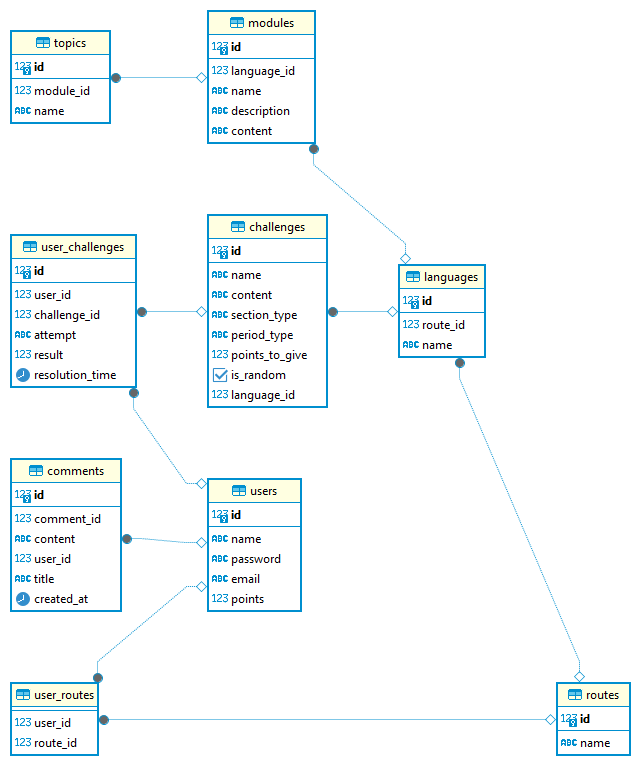
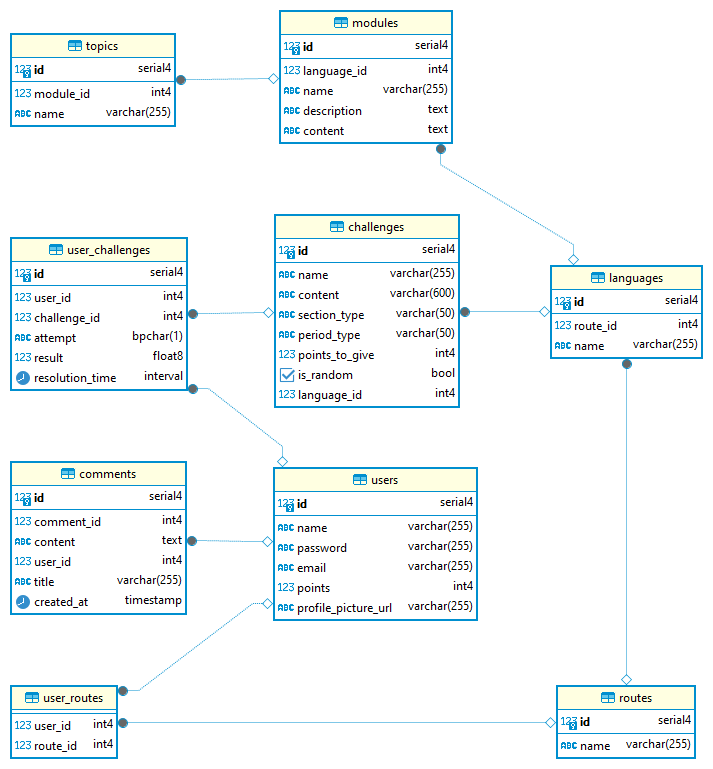
Add profile picture field to users

diff --git a/olp1-ms/src/models/userModel.js b/olp1-ms/src/models/userModel.js
@@ -9,11 +9,11 @@ exports.getAll = async () => {
 
 // Function to save a new user to the database
 exports.save = async (name, hashedPassword, email, points) => {
-  const query = `INSERT INTO users (name, password, email, points)
-                 VALUES ($1, $2, $3, $4)
+  const query = `INSERT INTO users (name, password, email, points, profile_picture_url)
+                 VALUES ($1, $2, $3, $4, $5)
                  RETURNING *`;
   // Define the values to be inserted               
-  const values = [name, hashedPassword, email, points];
+  const values = [name, hashedPassword, email, points, profile_picture_url];
   const { rows } = await pool.query(query, values);
   return rows[0];
 };
@@ -21,10 +21,10 @@ exports.save = async (name, hashedPassword, email, points) => {
 // Function to update an existing user in the database
 exports.update = async (id, data) => {
   const query = `UPDATE users
-                 SET name = $1, password = $2, email = $3, points = $4
-                 WHERE id = $5
+                 SET name = $1, password = $2, email = $3, points = $4, profile_picture_url = $5
+                 WHERE id = $6
                  RETURNING *`;
-  const values = [data.name, data.password, data.email, data.points, id];
+  const values = [data.name, data.password, data.email, data.points, data.profile_picture_url, id];
   const { rows } = await pool.query(query, values);
   return rows[0];
 };
@@ -52,7 +52,7 @@ exports.findById = async (id) => {
 // Function to update a specific column of a user in the database
 exports.updateSome = async (id, key, newValue) => {
     // Define the valid columns that can be updated
-  const validColumns = ['name', 'email', 'password', 'points']; 
+  const validColumns = ['name', 'email', 'password', 'points', 'profile_picture_url']; 
     // Check if the key is a valid column
   if (!validColumns.includes(key)) {
     throw new Error('Nombre de columna no válido');

diff --git a/olp1-ms/src/controllers/authController.js b/olp1-ms/src/controllers/authController.js
@@ -7,7 +7,7 @@ const { save, findByEmail } = require("../models/userModel");
 exports.register = async (req, res) => {
   try {
     // Extract user data from request body
-    const { name, email, password, points } = req.body;
+    const { name, email, password, points, profile_picture_url } = req.body;
     
     if(!name || !email || !password) {
         return res.status(400).json({message: 'Todos los campos son requeridos'});
@@ -24,7 +24,7 @@ exports.register = async (req, res) => {
     const hashedPassword = await bcrypt.hash(password, salt);
 
     // Save the new user in database
-    user = await save( name, hashedPassword, email, points );
+    user = await save( name, hashedPassword, email, points, profile_picture_url );
  
     if (!user) {
       return res.status(404).json({ message: "Error al crear el usuario" });

diff --git a/olp1-ms/src/controllers/userController.js b/olp1-ms/src/controllers/userController.js
@@ -29,7 +29,7 @@ exports.getById = async (req, res) => {
 exports.update = async (req, res) => {
     try {
         const { id } = req.params;
-        const { name, email, password, points } = req.body;
+        const { name, email, password, points, profile_picture_url } = req.body;
 
     // Verificar si el usuario existe
     const user = await findById(id);
@@ -42,7 +42,7 @@ exports.update = async (req, res) => {
     const hashedPassword = await bcrypt.hash(password, salt);
 
         // Actualizar usuario
-        const updatedUser = await update(id, { name, password: hashedPassword, email, points });
+        const updatedUser = await update(id, { name, password: hashedPassword, email, points, profile_picture_url });
 
     res
       .status(200)
